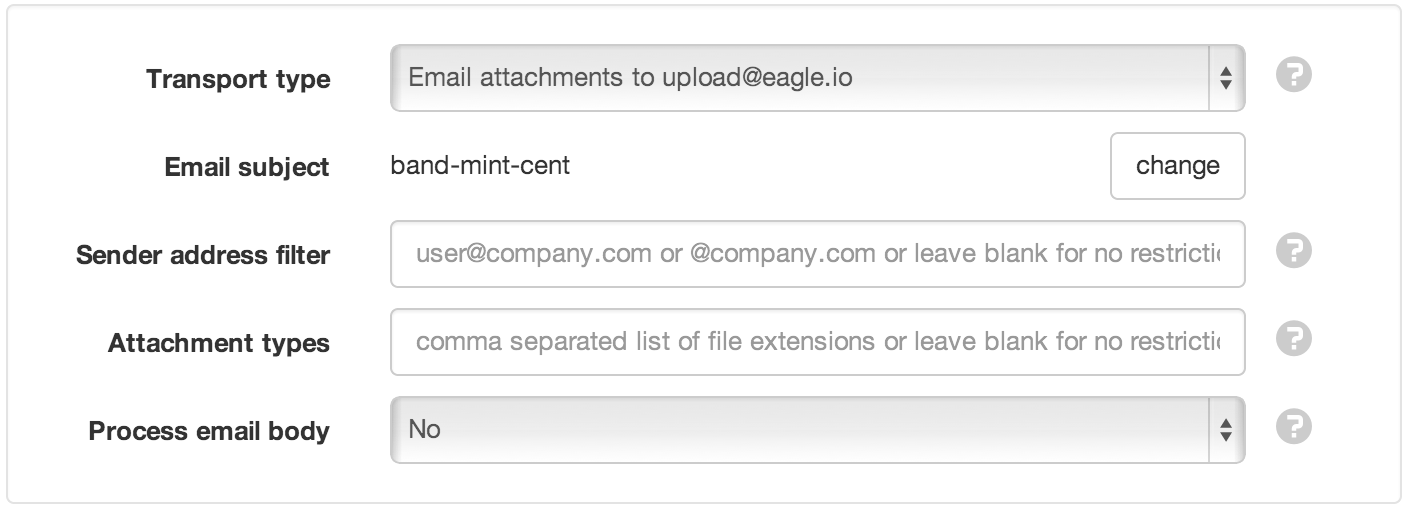
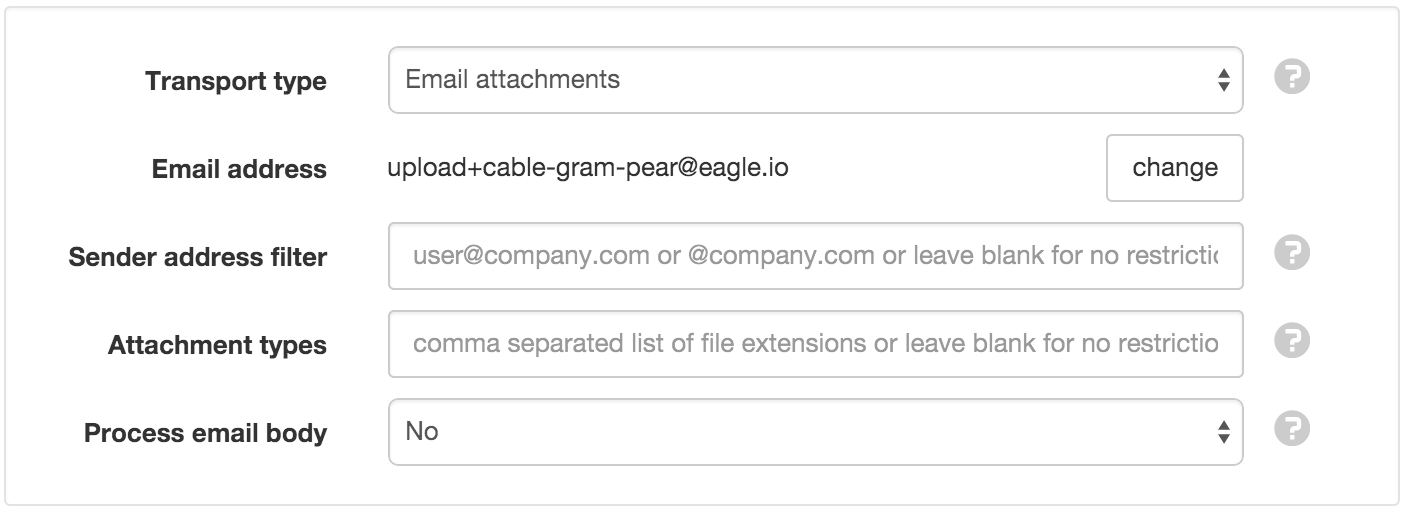
changed imapServer transports to use serverKey in email address instead of subject

diff --git a/source/topics/nodes/attachmentsource.rst b/source/topics/nodes/attachmentsource.rst
@@ -65,16 +65,16 @@ Configure how you would like to connect to your attachments.
 Transport type
 	Select the transport used to acquire attachments.
 
-	*Email attachments to upload@eagle.io*
+	*Email attachments*
 
-		Email attachments to upload@eagle.io using the auto-generated subject exactly as shown.
+		Email attachments using the auto-generated address exactly as shown.
 
 	*Upload attachments to ftp.eagle.io*
 
 		Ftp your files to ftp.eagle.io using the auto-generated user name exactly as shown. No password is usually required (however certain ftp clients may require a password to be set in there connection settings and the password 'data' can be used). Use Tcp port 21 for standard Ftp and Tcp port 990 for implicit SSL.
 
-Email subject
-	The subject of the email must appear exactly as shown. Click *change* to generate a new subject.
+Email address
+	Email your attachments to this address. Click *change* to generate a new email address.
 
 Ftp user
 	The user name to use to login to the Ftp server. Click *change* to generate a new Ftp user.

diff --git a/source/topics/nodes/datasource_file.rst b/source/topics/nodes/datasource_file.rst
@@ -96,12 +96,12 @@ Transport type
 
 		When changing the account, a popup window will be displayed which allows you to login to Dropbox and authorise access as shown above.
 
-	*Email data to upload@eagle.io*
+	*Email*
 
-		Email attachments to upload@eagle.io using the auto-generated subject exactly as shown.
+		Email data using the auto-generated email address exactly as shown.
 
 		Sender address filter
-			For added security you can filter attachments by sender email address. Restrict to a specific email address or to a specific domain. eg. user@company.com or @company.com. Leave blank for no restriction.
+			For added security you can filter by sender email address. Restrict to a specific email address or to a specific domain. eg. user@company.com or @company.com. Leave blank for no restriction.
 
 	*Upload data to ftp.eagle.io*
 
